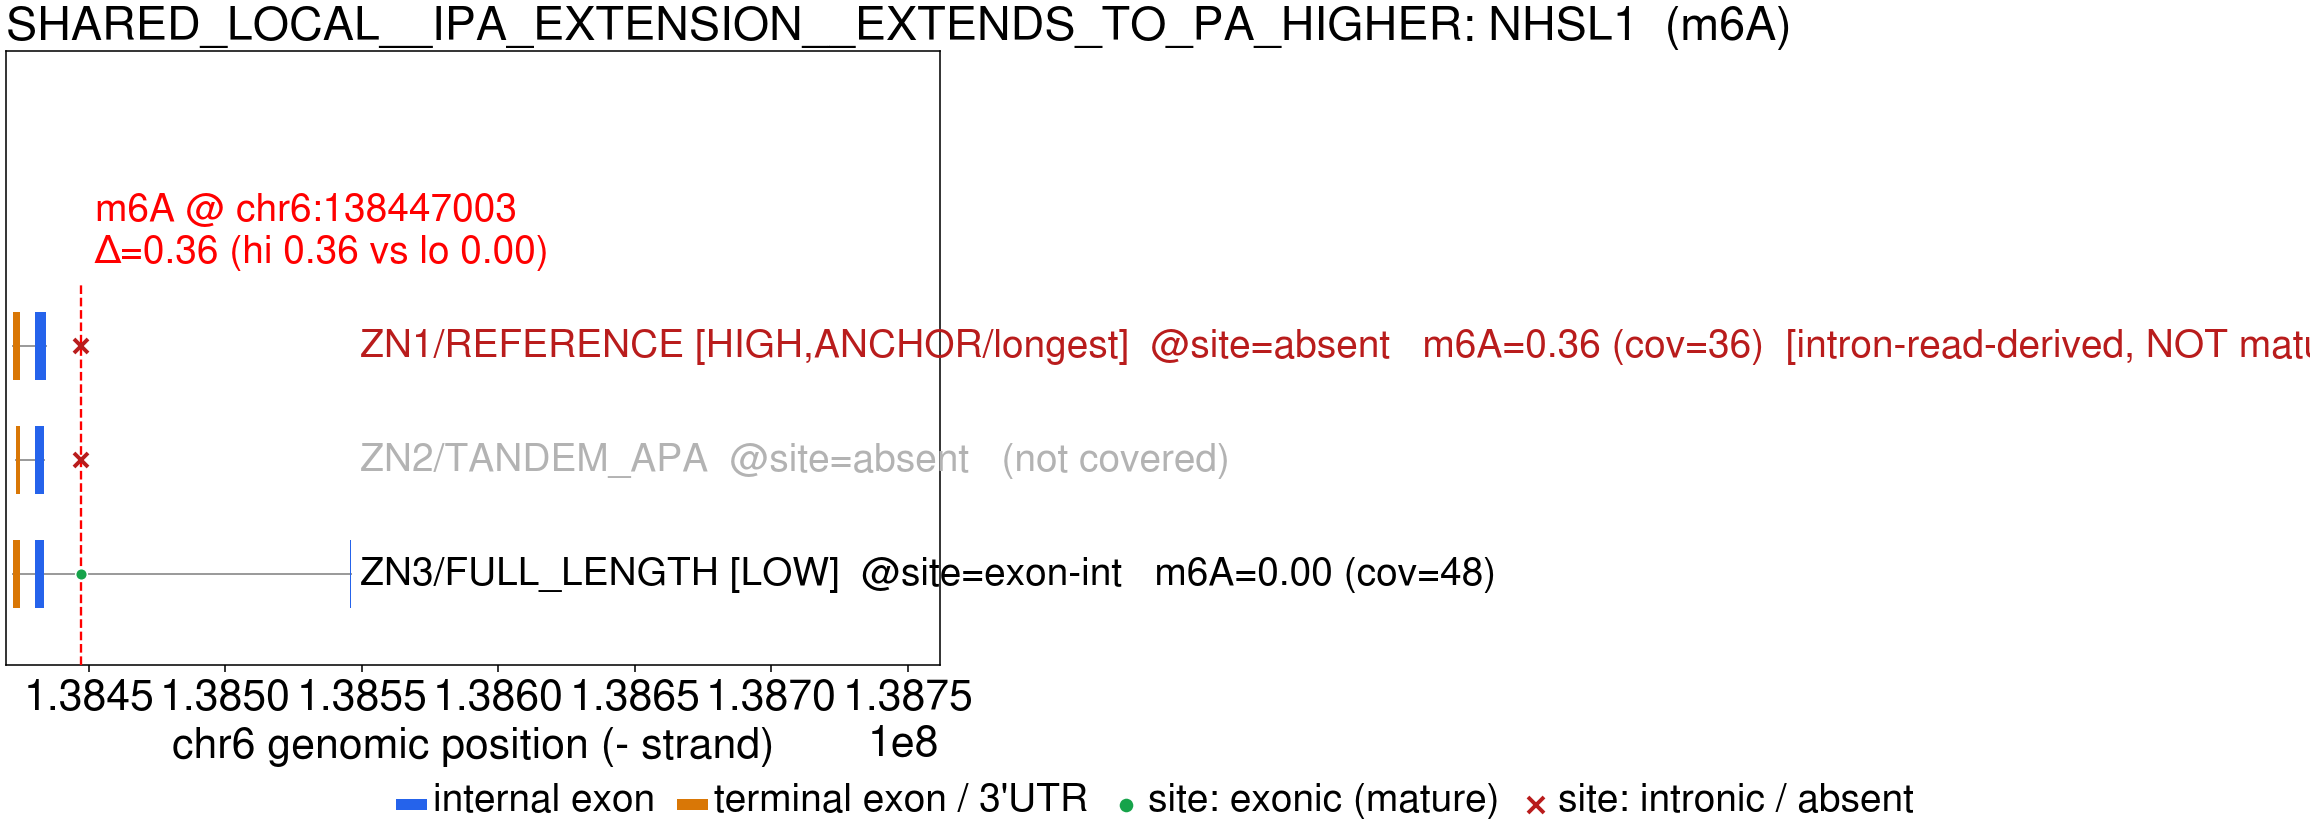
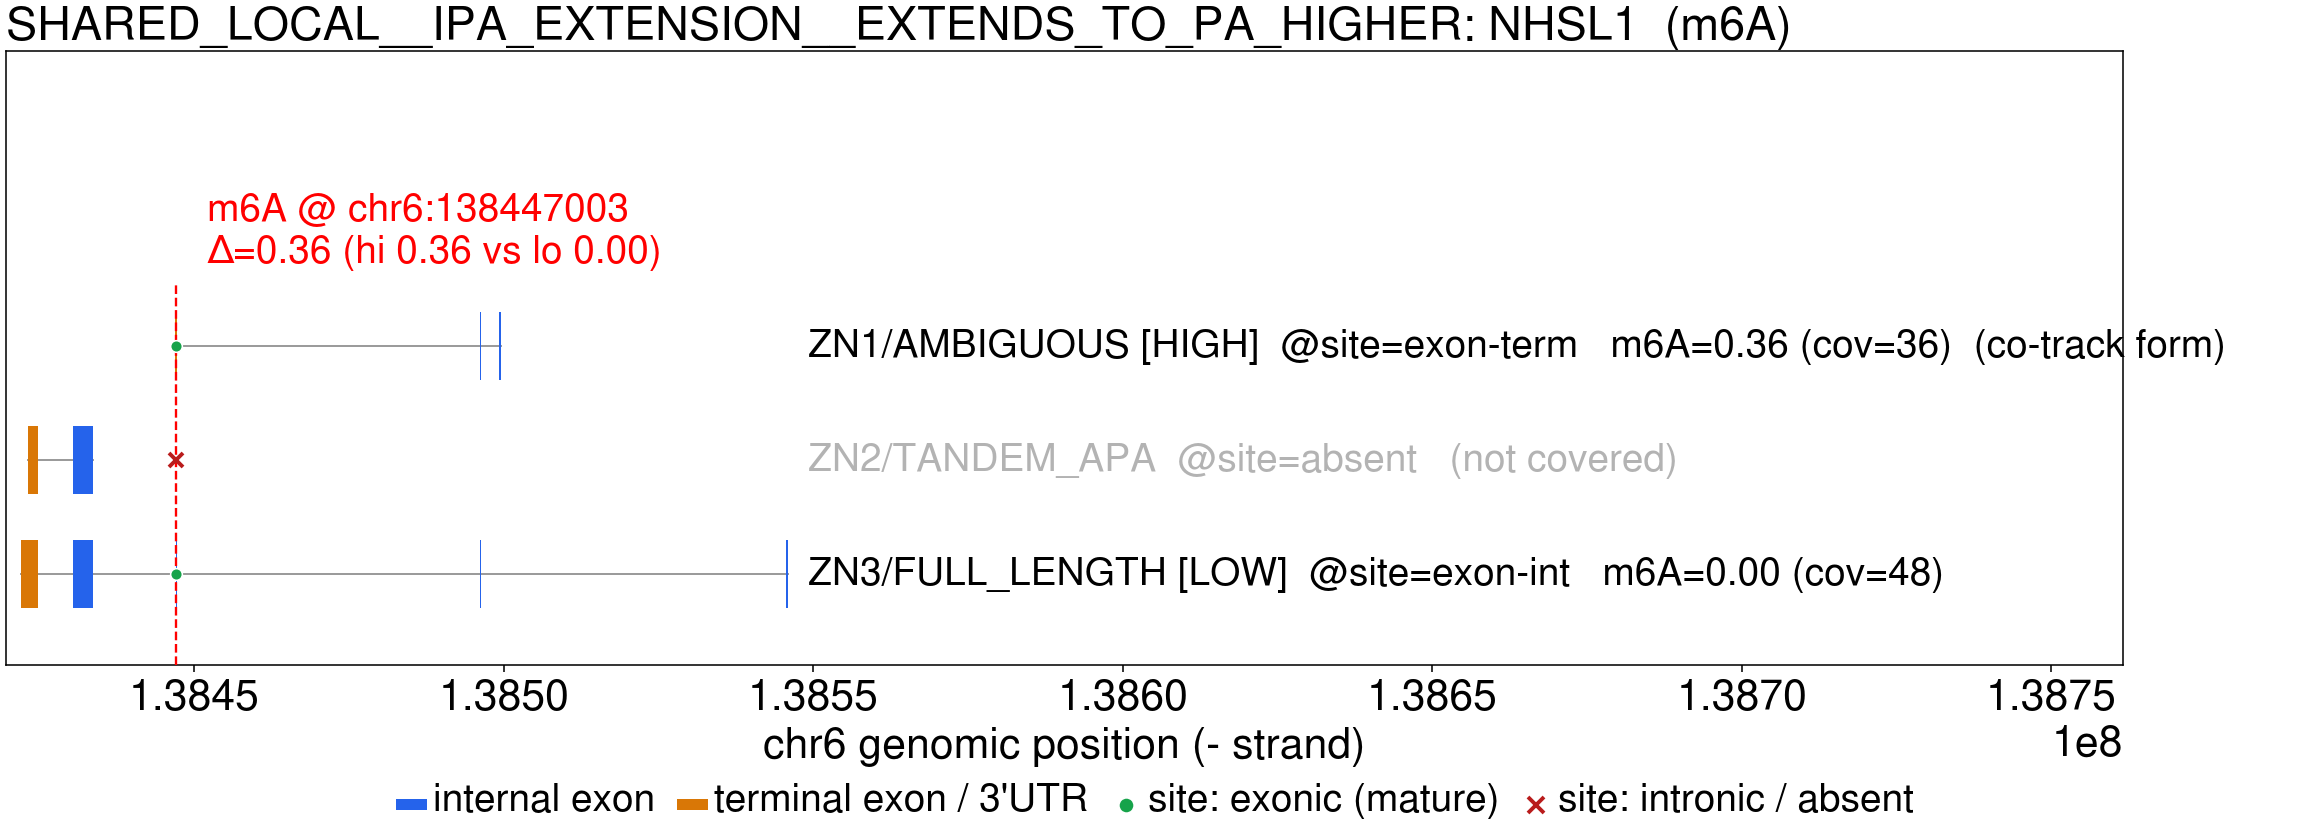
docs: refresh sample report (co-track arch figure fix)
Claude-Session: https://claude.ai/code/session_012Q7NzizJRKST3GgwXg59eH

diff --git a/docs/sample_report/demo14_report.html b/docs/sample_report/demo14_report.html
@@ -195,7 +195,7 @@
     </header>
     <section><details class='run-manifest' open><summary>Run inputs &amp; parameters</summary><pre class='manifest-pre'>modulator run manifest
 ================================================================
-Run date / time : 2026-08-21 09:48:42 EDT
+Run date / time : 2026-08-21 10:47:13 EDT
 Prefix          : demo14
 Project root    : /athena/cayuga_0003/scratch/users/thn4005/scripts/projects_v2/modulator_validation_testing/demo14genes_run
 Command         : /home/fs01/thn4005/.local/share/mamba/envs/modulator/bin/python /athena/cayuga_0003/scratch/users/thn4005/scripts/projects_v2/modulator_validation_testing/demo14genes_run/src/modulator/__main__.py run --config config/config.yaml --workdir /athena/cayuga_0003/scratch/users/thn4005/scripts/projects_v2/modulator_validation_testing/demo14genes_run --jobs 6 --set reference_fa=/athena/cayuga_0003/scratch/users/thn4005/scripts/projects_v2/modulator/modulator_06272026/hg38.fa reference_gtf=/athena/cayuga_0003/scratch/users/thn4005/scripts/projects_v2/modulator/modulator_06272026/hg38.ncbiRefSeq.gtf samplesheet=samples.tsv bams_dir=/athena/cayuga_0003/scratch/users/thn4005/scripts/projects_v2/modulator/modulator_06272026/benchmark/merged_bams bam_glob=*.bam prefix=demo14 threads=8 genotype.enable=true genotype.jobs=6
